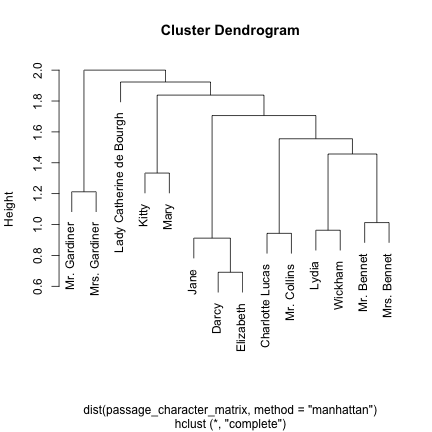
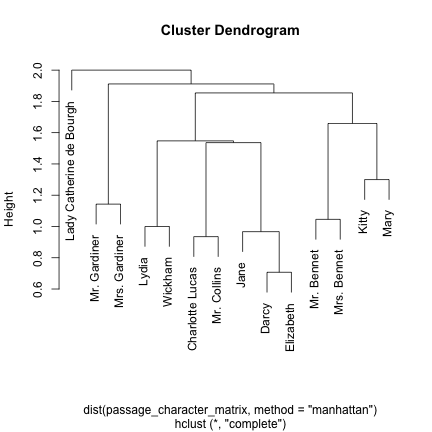
Used janeaustenr package on CRAN

diff --git a/README.md b/README.md
@@ -289,12 +289,7 @@ You can try other distance thresholds, other dictionaries, and other distance me
 
 ### Example of `regex_inner_join`: Classifying text based on regular expressions
 
-Consider the book Pride and Prejudice, by Jane Austen, which we can access through the `janeaustenr` package. Note that you'll have to first install it with:
-
-
-```r
-devtools::install_github("juliasilge/janeaustenr")
-```
+Consider the book Pride and Prejudice, by Jane Austen, which we can access through the [janeaustenr package](https://cran.r-project.org/web/packages/janeaustenr/index.html).
 
 We could split the books up into "passages" of 50 lines each.
 
@@ -309,7 +304,7 @@ passages <- data_frame(text = prideprejudice) %>%
   summarize(text = paste(text, collapse = " "))
 
 passages
-#> Source: local data frame [215 x 2]
+#> Source: local data frame [249 x 2]
 #> 
 #>    passage
 #>      (dbl)
@@ -366,20 +361,20 @@ This combines the two data frames based on cases where the `passages$text` colum
 ```r
 character_passages %>%
   select(passage, character, text)
-#> Source: local data frame [1,015 x 3]
+#> Source: local data frame [1,097 x 3]
 #> 
 #>    passage       character
 #>      (dbl)           (chr)
 #> 1        1      Mr. Bennet
 #> 2        1            Jane
-#> 3        1 Charlotte Lucas
-#> 4        2       Elizabeth
-#> 5        2      Mr. Bennet
-#> 6        2     Mrs. Bennet
-#> 7        2            Jane
-#> 8        2           Lydia
-#> 9        3      Mr. Bennet
-#> 10       3     Mrs. Bennet
+#> 3        2      Mr. Bennet
+#> 4        2            Jane
+#> 5        2           Lydia
+#> 6        2 Charlotte Lucas
+#> 7        3       Elizabeth
+#> 8        3      Mr. Bennet
+#> 9        3     Mrs. Bennet
+#> 10       4      Mr. Bennet
 #> ..     ...             ...
 #> Variables not shown: text (chr)
 ```
@@ -396,20 +391,20 @@ character_passages %>%
 #> 
 #>                   character     n
 #>                       (chr) (int)
-#> 1                 Elizabeth   194
-#> 2                     Darcy   137
-#> 3                      Jane   122
-#> 4                   Wickham    82
-#> 5               Mrs. Bennet    79
-#> 6                     Lydia    72
-#> 7               Mr. Collins    70
-#> 8           Charlotte Lucas    60
-#> 9                Mr. Bennet    52
-#> 10                    Kitty    39
-#> 11            Mrs. Gardiner    33
+#> 1                 Elizabeth   217
+#> 2                     Darcy   152
+#> 3                      Jane   132
+#> 4               Mrs. Bennet    88
+#> 5                   Wickham    85
+#> 6               Mr. Collins    77
+#> 7                     Lydia    75
+#> 8           Charlotte Lucas    68
+#> 9                Mr. Bennet    53
+#> 10                    Kitty    40
+#> 11            Mrs. Gardiner    35
 #> 12 Lady Catherine de Bourgh    26
-#> 13             Mr. Gardiner    26
-#> 14                     Mary    23
+#> 13             Mr. Gardiner    25
+#> 14                     Mary    24
 ```
 
 The data is also well suited to discover which characters appear in scenes together, and to cluster them to find groupings of characters (like in [this analysis]).
